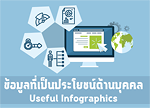
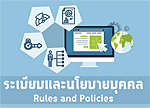
modify ชื่อเมนู add เมนูสวัสดิการ

diff --git a/src/pages/Index.vue b/src/pages/Index.vue
@@ -80,6 +80,7 @@
           <div class="col-lg-2 col-md-3 col-xs-6"><img class="full-width" src="statics/menu/menu-infographic.png" @click="$router.push('/infographic')"></div>
           <div class="col-lg-2 col-md-3 col-xs-6"><img class="full-width" src="statics/menu/menu-dashboard.png" @click="$router.push('/statistic')"></div>
           <div class="col-lg-2 col-md-3 col-xs-6"><img class="full-width" src="statics/menu/menu-search1.png" @click="$router.push('/search')"></div>
+          <div class="col-lg-2 col-md-3 col-xs-6"><img class="full-width" src="statics/menu/menu-benefit.png" @click="$router.push('/benefit')"></div>
          </div>
       </q-card-main>
     </q-card>

diff --git a/src/pages/Infographic.vue b/src/pages/Infographic.vue
@@ -4,7 +4,7 @@
       <div class="col-md-9 col-xs-12">
       <q-card class="q-ma-md">
       <q-card-main>
-         <p class="header">ข้อมูลที่เป็นประโยชน์ด้านบุคคล</p>
+         <p class="header">ระเบียบและนโยบายด้านบุคคล</p>
          <div class="row q-my-md">
           <div v-for="value in dataCategories" :key="value.id" class="col-lg-2 col-md-3 col-xs-6">
             <div class="q-px-xs">
